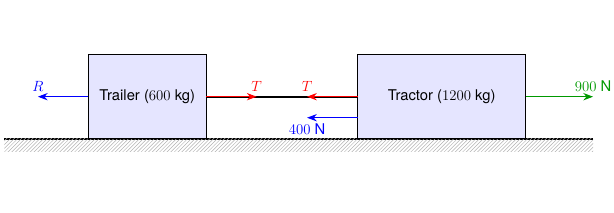
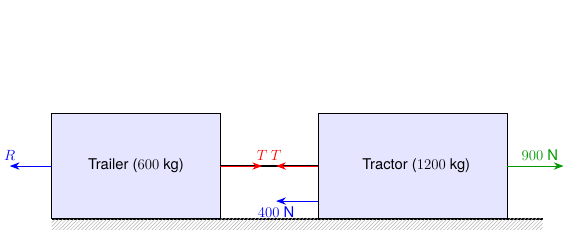
012046 to 012050

diff --git a/Mech_QB/Mech_1.js b/Mech_QB/Mech_1.js
@@ -1799,6 +1799,212 @@ window.ALEVEL_QUESTIONS = [
         "title": "The Head Teacher's Eye: Dropped Objects and Inertia",
         "content": "This is a classic 'relative motion' trap. Any object released from a moving vehicle inherits the vehicle's instantaneous velocity. Even though the passenger 'drops' the camera, relative to the ground it actually travels vertically upwards briefly before gravity slows it down and it begins to fall."
     }
+},
+{
+    "id": "012046",
+    "branch": "Mechanics",
+    "board": "Edexcel",
+    "level": "AS",
+    "major_area": "Kinematics",
+    "topic": "Motion graphs",
+    "subtopic": [
+        "Velocity-time graphs",
+        "Constant acceleration"
+    ],
+    "img": false,
+    "question": "A train travels along a straight horizontal track between two stations, $P$ and $Q$. In a model of the motion, the train starts from rest at $P$ and moves with constant acceleration $0.4\\\\text{ m s}^{ -2 }$ for $50\\\\text{ s }$. The train then moves at a constant velocity before it moves with a constant deceleration of $0.8\\\\text{ m s}^{ -2 }$, coming to rest at $Q$.<br><br><strong>(a)</strong> For this model of the motion of the train between $P$ and $Q$:<br><strong>(i)</strong> state the value of the constant velocity of the train,<br><strong>(ii)</strong> state the time for which the train is decelerating,<br><strong>(iii)</strong> sketch a velocity-time graph for the motion of the train.<br><br>The total distance between the two stations is $3250\\\\text{ m }$.<br><br><strong>(b)</strong> Using the model, find the total time taken by the train to travel from $P$ to $Q$.<br><br><strong>(c)</strong> Suggest one improvement that could be made to the model to make it more realistic.",
+    "steps": [
+        "<strong>(a)(i) Constant Velocity ($V$):</strong><br>The train starts from rest ($u = 0$) and accelerates at $a = 0.4\\\\text{ m s}^{ -2 }$ for $t = 50\\\\text{ s }$. Using $v = u + at$:<br><br>\\begin{aligned} V &= 0 + 0.4 \\\\times 50 \\\\cr V &= 20\\\\text{ m s}^{ -1 } \\end{aligned}",
+        "<strong>(a)(ii) Deceleration time ($t_d$):</strong><br>The train decelerates from its constant velocity of $20\\\\text{ m s}^{ -1 }$ to rest ($v = 0$) at a rate of $0.8\\\\text{ m s}^{ -2 }$. Using $v = u + at$:<br><br>\\begin{aligned} 0 &= 20 - 0.8t_d \\\\cr 0.8t_d &= 20 \\\\cr t_d &= 25\\\\text{ s } \\end{aligned}",
+        "<strong>(a)(iii) Velocity-time graph sketch:</strong><br>The graph consists of three phases:<br>1. Acceleration from $(0,0)$ to $(50, 20)$<br>2. Constant velocity of $20\\\\text{ m s}^{ -1 }$ until deceleration begins<br>3. Deceleration from $20\\\\text{ m s}^{ -1 }$ to rest at the final time $T$, lasting $25\\\\text{ s }$:<br><br><img src='images/Pure/012046_ans.png' style='width:100%; max-width:400px; margin: 15px auto; display:block; border: 1px solid #ccc;'></img>",
+        "<strong>(b) Find the total time $T$:</strong><br>We can find the total distance by calculating the area under the velocity-time graph for each phase:<br><br>• <strong>Phase 1 (Acceleration):</strong> Area of triangle = $\\\\dfrac{ 1 }{ 2 } \\\\times 50 \\\\times 20 = 500\\\\text{ m }$<br>• <strong>Phase 3 (Deceleration):</strong> Area of triangle = $\\\\dfrac{ 1 }{ 2 } \\\\times 25 \\\\times 20 = 250\\\\text{ m }$<br>• <strong>Phase 2 (Constant Velocity):</strong> The remaining distance is:<br><br>\\begin{aligned} 3250 - (500 + 250) = 2500\\\\text{ m } \\end{aligned}<br><br>The time spent at constant speed ($t_c$) is:<br><br>\\begin{aligned} t_c &= \\\\dfrac{ 2500 }{ 20 } \\\\cr t_c &= 125\\\\text{ s } \\end{aligned}",
+        "The total time $T$ is the sum of the durations of all three phases:<br><br>\\begin{aligned} T &= 50 + 125 + 25 \\\\cr T &= 200\\\\text{ seconds } \\end{aligned}",
+        "<strong>(c) Suggested Improvement:</strong><br>The model could be made more realistic by smoothing the transitions between phases rather than assuming instantaneous changes in acceleration (i.e. avoiding sharp corners on the velocity-time graph), or by incorporating air resistance and friction."
+    ],
+    "pi_options": [
+        {
+            "ans": "(a)(i) $20\\text{ m s}^{-1}$, (a)(ii) $25\\text{ s}$, (b) $187.5\\text{ s}$",
+            "feedback": "This result is based on an arithmetic slip when summing the times of the three phases: $50 + 125 + 25$ is equal to $200\\text{ s}$, not $187.5\\text{ s}$."
+        },
+        {
+            "ans": "(a)(i) $20\\text{ m s}^{-1}$, (a)(ii) $16\\text{ s}$, (b) $212.5\\text{ s}$",
+            "feedback": "This occurs if you miscalculate the deceleration time as $16\\text{ s}$ instead of $25\\text{ s}$ by multiplying by $0.8$ instead of dividing. Deceleration time is found by dividing the constant velocity by the rate of deceleration."
+        },
+        {
+            "ans": "(a)(i) $20\\text{ m s}^{-1}$, (a)(ii) $25\\text{ s}$, (b) $162.5\\text{ s}$",
+            "feedback": "This error occurs if you miss one of the journey segments (such as the deceleration phase) when calculating the total travel time."
+        }
+    ],
+    "bradley_insight": {
+        "type": "pro-tip",
+        "title": "The Head Teacher's Eye: End Phases First",
+        "content": "For multi-stage journeys represented as a trapezium on a velocity-time graph, always calculate the durations and distances of the two 'end' phases (acceleration and deceleration) first. The middle phase distance is then easily found by subtracting these from the total distance."
+    }
+},
+{
+    "id": "012047",
+    "branch": "Mechanics",
+    "board": "Edexcel",
+    "level": "AS",
+    "major_area": "Kinematics",
+    "topic": "Motion graphs",
+    "subtopic": [
+        "Velocity-time graphs",
+        "Constant acceleration"
+    ],
+    "img": false,
+    "question": "A cyclist travels along a straight horizontal road. She starts from rest at point $X$ and accelerates uniformly at $1.2\\\\text{ m s}^{ -2 }$ until she reaches a speed of $18\\\\text{ m s}^{ -1 }$. She maintains this speed for $T$ seconds before decelerating uniformly at $0.6\\\\text{ m s}^{ -2 }$, coming to rest at point $Y$. The entire journey from $X$ to $Y$ takes $120\\\\text{ s }$.<br><br><strong>(a)</strong> Sketch a velocity-time graph for the cyclist's journey.<br><br><strong>(b)</strong> Find the value of $T$.<br><br><strong>(c)</strong> Find the total distance between $X$ and $Y$.<br><br><strong>(d)</strong> State one physical factor that has been ignored in this model of the cyclist's motion.",
+    "steps": [
+        "<strong>(a) Velocity-time graph sketch:</strong><br>The journey contains three distinct sections:<br>1. Uniform acceleration from rest to $18\\\\text{ m s}^{ -1 }$ over $15\\\\text{ s }$<br>2. Constant speed of $18\\\\text{ m s}^{ -1 }$ for $T$ seconds (from $15\\\\text{ s }$ to $15 + T$)<br>3. Uniform deceleration from $18\\\\text{ m s}^{ -1 }$ to rest over $30\\\\text{ s }$ to the final time $120\\\\text{ s }$:<br><br><img src='images/Pure/012047_ans.png' style='width:100%; max-width:400px; margin: 15px auto; display:block; border: 1px solid #ccc;'></img>",
+        "<strong>(b) Find the value of $T$:</strong><br>First, calculate the duration of the acceleration phase ($t_a$):<br><br>\\begin{aligned} t_a &= \\\\dfrac{ v }{ a_1 } \\\\cr t_a &= \\\\dfrac{ 18 }{ 1.2 } \\\\cr t_a &= 15\\\\text{ s } \\end{aligned}",
+        "Next, calculate the duration of the deceleration phase ($t_d$):<br><br>\\begin{aligned} t_d &= \\\\dfrac{ v }{ a_2 } \\\\cr t_d &= \\\\dfrac{ 18 }{ 0.6 } \\\\cr t_d &= 30\\\\text{ s } \\end{aligned}",
+        "Since the total time for the entire journey is $120\\\\text{ s }$, the constant velocity duration $T$ is:<br><br>\\begin{aligned} T &= 120 - t_a - t_d \\\\cr T &= 120 - 15 - 30 \\\\cr T &= 75\\\\text{ seconds } \\end{aligned}",
+        "<strong>(c) Find the total distance:</strong><br>The total distance is the area of the trapezium under the velocity-time graph. The formula for the area of a trapezium is $\\\\dfrac{ 1 }{ 2 }(a + b)h$:<br>• Bottom parallel side, $a = 120$<br>• Top parallel side, $b = T = 75$<br>• Height, $h = 18$<br><br>\\begin{aligned} \\\\text{ Total Distance } &= \\\\dfrac{ 1 }{ 2 } \\\\times (120 + 75) \\\\times 18 \\\\cr &= 97.5 \\\\times 18 \\\\cr &= 1755\\\\text{ m } \\end{aligned}",
+        "<strong>(d) Ignored Factor:</strong><br>The model treats the bicycle and cyclist as a particle, thereby ignoring air resistance, friction between the tyres and road, and the physical dimensions of the cyclist."
+    ],
+    "pi_options": [
+        {
+            "ans": "(b) $T = 75\\text{ s}$, (c) $1620\\text{ m}$",
+            "feedback": "This distance of $1620\\text{ m}$ is obtained if you make an arithmetic error during the trapezium area calculation, such as using incorrect parallel side values."
+        },
+        {
+            "ans": "(b) $T = 90\\text{ s}$, (c) $1890\\text{ m}$",
+            "feedback": "This occurs if you fail to subtract the deceleration phase time of $30\\text{ s}$ from the total time when calculating $T$, leading to $T = 90\\text{ s}$ and a corresponding overestimate of the distance."
+        },
+        {
+            "ans": "(b) $T = 75\\text{ s}$, (c) $1350\\text{ m}$",
+            "feedback": "This distance of $1350\\text{ m}$ represents only the distance covered during the constant velocity phase ($75 \\\\times 18$). Ensure you include the triangular areas for both the acceleration and deceleration phases."
+        }
+    ],
+    "bradley_insight": {
+        "type": "caution",
+        "title": "The Head Teacher's Eye: Trailing Journey Constraints",
+        "content": "The entire journey time is given as $120\\\\text{ s }$, so $T$ is simply the total time minus the durations spent changing speed. Always verify that your individual phase durations add up perfectly to the given total before calculating the distance."
+    }
+},
+{
+    "id": "012048",
+    "branch": "Mechanics",
+    "board": "Edexcel",
+    "level": "AS",
+    "major_area": "Kinematics",
+    "topic": "Motion graphs",
+    "subtopic": [
+        "Velocity-time graphs",
+        "Relative motion",
+        "Constant acceleration"
+    ],
+    "img": false,
+    "question": "Two cars, $A$ and $B$, start from rest at the same point at time $t = 0$ and travel in the same direction along a straight horizontal road.<br>• Car $A$ accelerates uniformly at $1.5\\\\text{ m s}^{ -2 }$ for $10\\\\text{ s }$ to a speed of $15\\\\text{ m s}^{ -1 }$, and then continues at this constant speed.<br>• Car $B$ accelerates uniformly at $1.0\\\\text{ m s}^{ -2 }$ for $20\\\\text{ s }$ to a speed of $20\\\\text{ m s}^{ -1 }$, and then continues at this constant speed.<br><br><strong>(a)</strong> Sketch, on the same axes, the velocity-time graphs for the motion of both cars for $0 \\\\le t \\\\le 30$.<br><br><strong>(b)</strong> Find the value of $t$ when the two cars are travelling at the same speed.<br><br><strong>(c)</strong> Find the distance between the two cars at $t = 30\\\\text{ s }$."    ,
+    "steps": [
+        "<strong>(a) Sketch on the same axes:</strong><br>• Car $A$ accelerates to $15\\\\text{ m s}^{ -1 }$ at $t = 10\\\\text{ s }$ and remains constant.<br>• Car $B$ accelerates to $20\\\\text{ m s}^{ -1 }$ at $t = 20\\\\text{ s }$ and remains constant.<br>• The two graphs intersect at $t = 15\\\\text{ s }$, where both cars are travelling at $15\\\\text{ m s}^{ -1 }$:<br><br><img src='images/Pure/012048_ans.png' style='width:100%; max-width:400px; margin: 15px auto; display:block; border: 1px solid #ccc;'></img>",
+        "<strong>(b) Find $t$ when speeds are equal:</strong><br>Car $A$ reaches its constant speed of $15\\\\text{ m s}^{ -1 }$ at $t = 10\\\\text{ s }$.<br>Car $B$ is still accelerating at $t = 10\\\\text{ s }$. We want to find the time $t$ when Car $B$ reaches $15\\\\text{ m s}^{ -1 }$ during its acceleration phase:<br><br>\\begin{aligned} v &= u + at \\\\cr 15 &= 0 + 1.0 \\\\times t \\\\cr t &= 15\\\\text{ seconds } \\end{aligned}<br><br>Since $15\\\\text{ s }$ is within Car $B$'s acceleration phase ($0 \\\\le t \\\\le 20$), this is the correct time.",
+        "<strong>(c) Find the distance between the cars at $t = 30\\\\text{ s }$:</strong><br>We calculate the distance travelled by each car by finding the area under their respective velocity-time graphs from $t = 0$ to $t = 30$.<br><br>• <strong>Distance for Car $A$:</strong><br>The shape is a trapezium with parallel sides of length $30$ and $20$, and a height of $15$:<br><br>\\begin{aligned} \\\\text{ Distance }_A &= \\\\dfrac{ 1 }{ 2 } \\\\times (30 + 20) \\\\times 15 \\\\cr &= 25 \\\\times 15 \\\\cr &= 375\\\\text{ m } \\end{aligned}",
+        "• <strong>Distance for Car $B$:</strong><br>The shape is a trapezium with parallel sides of length $30$ and $10$, and a height of $20$:<br><br>\\begin{aligned} \\\\text{ Distance }_B &= \\\\dfrac{ 1 }{ 2 } \\\\times (30 + 10) \\\\times 20 \\\\cr &= 20 \\\\times 20 \\\\cr &= 400\\\\text{ m } \\end{aligned}",
+        "• <strong>Distance between the two cars:</strong><br>Subtract Car $A$'s distance from Car $B$'s distance:<br><br>\\begin{aligned} \\\\text{ Separation } &= 400 - 375 \\\\cr &= 25\\\\text{ m } \\end{aligned}"
+    ],
+    "pi_options": [
+        {
+            "ans": "(b) $t = 15\\text{ s}$, (c) $75\\text{ m}$",
+            "feedback": "This separation of $75\\text{ m}$ occurs if you make an error in calculating the trapezoidal areas for the distance of Car $A$ or Car $B$."
+        },
+        {
+            "ans": "(b) $t = 12.5\\text{ s}$, (c) $25\\text{ m}$",
+            "feedback": "The time of equal speed is $15\\text{ s}$, because Car $B$ reaches the constant speed of Car $A$ ($15\\text{ m s}^{-1}$) at exactly $t = 15\\text{ s}$. Avoid equating average speeds to find this point."
+        },
+        {
+            "ans": "(b) $t = 15\\text{ s}$, (c) $150\\text{ m}$",
+            "feedback": "Make sure you calculate the entire distance covered by both cars up to $t = 30\\text{ s}$, including both the acceleration and constant speed phases, rather than just comparing their acceleration phases."
+        }
+    ],
+    "bradley_insight": {
+        "type": "deeper",
+        "title": "The Head Teacher's Eye: Visualising Area Separation",
+        "content": "On a combined velocity-time graph, the distance between the two vehicles is visually represented by the difference between the areas under their respective lines. Finding equal speeds tells you where the vertical separation is zero, but the physical separation is found by computing the area difference."
+    }
+},
+{
+    "id": "012049",
+    "branch": "Mechanics",
+    "board": "Edexcel",
+    "level": "AS",
+    "major_area": "Kinematics",
+    "topic": "Motion graphs",
+    "subtopic": [
+        "Velocity-time graphs",
+        "Variable acceleration",
+        "Integration in kinematics"
+    ],
+    "img": false,
+    "question": "A particle $P$ moves along a straight horizontal line. At time $t$ seconds ($t \\\\ge 0$), the velocity of $P$, $v\\\\text{ m s}^{ -1 }$, is modelled by the formula:<br>$$v = 6t - t^2 \\\\quad \\\\text{for } 0 \\\\le t \\\\le 6$$<br>and $v = 0$ for $t > 6$.<br><br><strong>(a)</strong> Sketch a velocity-time graph for the motion of $P$ for $0 \\\\le t \\\\le 8$.<br><br><strong>(b)</strong> Find the maximum speed of $P$ during the interval $0 \\\\le t \\\\le 6$, stating the value of $t$ at which it occurs.<br><br><strong>(c)</strong> Find the total distance travelled by $P$ during the interval $0 \\\\le t \\\\le 6$.",
+    "steps": [
+        "<strong>(a) Sketch of the velocity-time graph:</strong><br>The graph is a parabola passing through the origin $(0,0)$ and meeting the t-axis again at $t = 6\\\\text{ s }$. For $t > 6$, the velocity is zero (horizontal line on the axis):<br><br><img src='images/Pure/012049_ans.png' style='width:100%; max-width:400px; margin: 15px auto; display:block; border: 1px solid #ccc;'></img>",
+        "<strong>(b) Find the maximum speed:</strong><br>The velocity function is $v = 6t - t^2$. To find the maximum speed, we differentiate $v$ with respect to $t$ and set the derivative to zero:<br><br>\\begin{aligned} \\\\dfrac{ \\\\mathrm{d}v }{ \\\\mathrm{d}t } &= 6 - 2t \\\\cr 6 - 2t &= 0 \\\\cr t &= 3\\\\text{ seconds } \\end{aligned}",
+        "Substitute $t = 3$ back into the velocity formula to find the maximum speed:<br><br>\\begin{aligned} v_{ \\\\text{ max } } &= 6(3) - (3)^2 \\\\cr &= 18 - 9 \\\\cr &= 9\\\\text{ m s}^{ -1 } \\end{aligned}<br><br>The maximum speed is $9\\\\text{ m s}^{ -1 }$, occurring at $t = 3\\\\text{ s }$.",
+        "<strong>(c) Find the total distance travelled:</strong><br>Since $v \\\\ge 0$ during the interval $0 \\\\le t \\\\le 6$, the total distance is found by integrating the velocity function between these limits:<br><br>\\begin{aligned} \\\\text{ Distance } &= \\\\int_{ 0 }^{ 6 } (6t - t^2) \\\\, \\\\mathrm{d}t \\\\cr &= \\\\left[ 3t^2 - \\\\dfrac{ 1 }{ 3 }t^3 \\\\right]_{ 0 }^{ 6 } \\\\cr &= \\\\left( 3(6)^2 - \\\\dfrac{ 1 }{ 3 }(6)^3 \\\\right) - 0 \\\\cr &= (108 - 72) \\\\cr &= 36\\\\text{ m } \\end{aligned}"
+    ],
+    "pi_options": [
+        {
+            "ans": "(b) $9\\text{ m s}^{-1}$ at $t = 3\\text{ s}$, (c) $18\\text{ m}$",
+            "feedback": "This distance of $18\\text{ m}$ is obtained if you integrate $t^2$ incorrectly as $\\\\dfrac{ 1 }{ 2 }t^3$ or make a division slip during integration. Remember that $\\\\int t^n \\\\, \\\\mathrm{d}t = \\\\dfrac{ t^{n+1} }{ n+1 }$."
+        },
+        {
+            "ans": "(b) $6\\text{ m s}^{-1}$ at $t = 3\\text{ s}$, (c) $36\\text{ m}$",
+            "feedback": "To find the maximum speed, substitute $t = 3$ into the original function $v = 6t - t^2$, which yields $18 - 9 = 9\\text{ m s}^{-1}$. Ensure you use the correct function."
+        },
+        {
+            "ans": "(b) $9\\text{ m s}^{-1}$ at $t = 3\\text{ s}$, (c) $54\\text{ m}$",
+            "feedback": "Make sure you use definite integration limits from $0$ to $6$ to find the exact area under the curved parabola rather than trying to approximate it with a bounding rectangle."
+        }
+    ],
+    "bradley_insight": {
+        "type": "deeper",
+        "title": "The Head Teacher's Eye: Variable Kinematics Rules",
+        "content": "When velocity is a non-linear function of $t$, you must use calculus rather than SUVAT. As a nice pure-maths verification, the area of the 'hump' of this parabola is exactly $\\\\dfrac{ 2 }{ 3 }$ of the bounding box ($6 \\\\times 9$), which is $36\\\\text{ m }$."
+    }
+},
+{
+    "id": "012050",
+    "branch": "Mechanics",
+    "board": "Edexcel",
+    "level": "AS",
+    "major_area": "Kinematics",
+    "topic": "Motion graphs",
+    "subtopic": [
+        "Velocity-time graphs",
+        "Constant acceleration",
+        "Vertical motion under gravity"
+    ],
+    "img": false,
+    "question": "A parachutist jumps from a stationary balloon and falls vertically. She falls freely under gravity from rest for $4\\\\text{ s }$. At the instant $t = 4\\\\text{ s }$, her parachute opens, causing her to decelerate uniformly at $12\\\\text{ m s}^{ -2 }$ for $2.5\\\\text{ s }$. She then continues to fall vertically at a constant speed of $V\\\\text{ m s}^{ -1 }$ until she reaches the ground. The acceleration due to gravity is modelled as $9.8\\\\text{ m s}^{ -2 }$.<br><br><strong>(a)</strong> Show that the speed of the parachutist at $t = 4\\\\text{ s }$ is $39.2\\\\text{ m s}^{ -1 }$.<br><br><strong>(b)</strong> Find the value of $V$.<br><br><strong>(c)</strong> Sketch a velocity-time graph for the motion of the parachutist from the instant she jumps to the instant she reaches the ground.<br><br>Given that the total vertical distance fallen is $230.9\\\\text{ m}$:<br><br><strong>(d)</strong> Find the total time taken from the instant she jumps to the instant she reaches the ground.",
+    "steps": [
+        "<strong>(a) Show that the speed at $t = 4\\\\text{ s }$ is $39.2\\\\text{ m s}^{ -1 }$:</strong><br>The parachutist falls freely from rest under gravity ($u = 0$, $a = 9.8\\\\text{ m s}^{ -2 }$) for $4\\\\text{ s }$. Using $v = u + at$:<br><br>\\begin{aligned} v &= 0 + 9.8 \\\\times 4 \\\\cr v &= 39.2\\\\text{ m s}^{ -1 } \\end{aligned}",
+        "<strong>(b) Find the value of $V$:</strong><br>At $t = 4\\\\text{ s }$, the parachute opens, decelerating her at $12\\\\text{ m s}^{ -2 }$ for $2.5\\\\text{ s }$. Using $v = u + at$ with initial speed $u = 39.2\\\\text{ m s}^{ -1 }$:<br><br>\\begin{aligned} V &= 39.2 - 12 \\\\times 2.5 \\\\cr V &= 39.2 - 30 \\\\cr V &= 9.2\\\\text{ m s}^{ -1 } \\end{aligned}",
+        "<strong>(c) Sketch the velocity-time graph:</strong><br>The graph comprises three segments:<br>1. Linear acceleration from $(0,0)$ to $(4, 39.2)$<br>2. Linear deceleration from $(4, 39.2)$ to $(6.5, 9.2)$<br>3. Horizontal line representing a constant terminal speed of $9.2\\\\text{ m s}^{ -1 }$ until she lands at $T$:<br><br><img src='images/Pure/012050_ans.png' style='width:100%; max-width:400px; margin: 15px auto; display:block; border: 1px solid #ccc;'></img>",
+        "<strong>(d) Find the total time of flight $T$:</strong><br>We split the total distance of $230.9\\\\text{ m }$ into the three phases of the journey:<br><br>• <strong>Phase 1 (Free Fall):</strong> Area of triangle:<br><br>\\begin{aligned} s_1 &= \\\\dfrac{ 1 }{ 2 } \\\\times 4 \\\\times 39.2 \\\\cr &= 78.4\\\\text{ m } \\end{aligned}",
+        "• <strong>Phase 2 (Deceleration):</strong> Area of trapezium under the graph between $t = 4$ and $t = 6.5$ (duration of $2.5\\\\text{ s }$):<br><br>\\begin{aligned} s_2 &= \\\\dfrac{ 39.2 + 9.2 }{ 2 } \\\\times 2.5 \\\\cr &= 24.2 \\\\times 2.5 \\\\cr &= 60.5\\\\text{ m } \\end{aligned}",
+        "• <strong>Phase 3 (Constant Speed):</strong> Find the remaining distance to the ground:<br><br>\\begin{aligned} s_3 &= 230.9 - (78.4 + 60.5) \\\\cr s_3 &= 230.9 - 138.9 \\\\cr s_3 &= 92\\\\text{ m } \\end{aligned}<br><br>Calculate the time spent in Phase 3 ($t_3$) at constant speed $V = 9.2\\\\text{ m s}^{ -1 }$:<br><br>\\begin{aligned} t_3 &= \\\\dfrac{ s_3 }{ V } \\\\cr &= \\\\dfrac{ 92 }{ 9.2 } \\\\cr &= 10\\\\text{ s } \\end{aligned}",
+        "• <strong>Total Time:</strong> Sum the times of all three phases:<br><br>\\begin{aligned} T_{\\\\text{ total }} &= 4 + 2.5 + 10 \\\\cr &= 16.5\\\\text{ seconds } \\end{aligned}"
+    ],
+    "pi_options": [
+        {
+            "ans": "(b) $V = 9.2\\text{ m s}^{-1}$, (d) $15.5\\text{ s}$",
+            "feedback": "This total time of $15.5\\text{ s}$ is a common arithmetic slip when summing the phases ($4 + 2.5 + 10$), where $4 + 2.5$ is added incorrectly or one of the values is misread."
+        },
+        {
+            "ans": "(b) $V = 9.2\\text{ m s}^{-1}$, (d) $21.5\\text{ s}$",
+            "feedback": "Make sure you use the trapezium area formula $\\\\dfrac{ u + v }{ 2 } \\\\times t$ to calculate the distance travelled during the deceleration phase rather than a simple triangle."
+        },
+        {
+            "ans": "(b) $V = 15.2\\text{ m s}^{-1}$, (d) $12.5\\text{ s}$",
+            "feedback": "Since the parachute causes a deceleration, the acceleration is negative relative to the direction of motion, so $V = 39.2 - 12(2.5)$."
+        }
+    ],
+    "bradley_insight": {
+        "type": "caution",
+        "title": "The Head Teacher's Eye: Mid-Journey Trapeziums",
+        "content": "The deceleration phase of this motion is a trapezium on the velocity-time graph. Make sure you use the average velocity $(\\\\dfrac{ u + v }{ 2 })$ to find that middle distance correctly, rather than mistakenly treating it as a simple triangle."
+    }
 }
 
 ];
